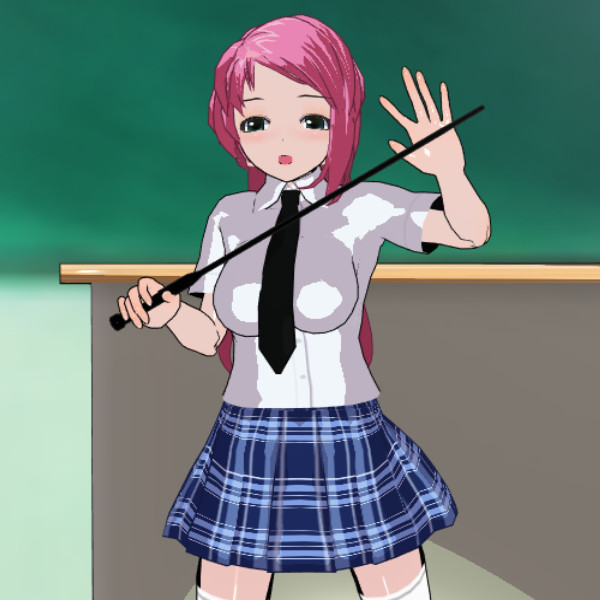
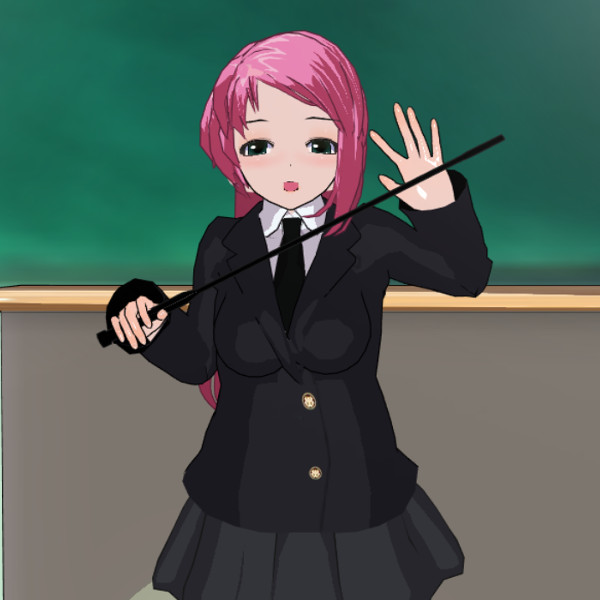
Chapter 12 - Models for the Wardrobe
Chapter 12 - Models for the Wardrobe

diff --git a/Drawing.js b/Drawing.js
@@ -409,7 +409,7 @@ function DrawGetPlayerImageName(IncludePose) {
 
 	// Third part is the collar, which only shows for certain clothes
 	var ImageCollar = "";
-	if ((ImageCloth == "Underwear") || (ImageCloth == "Naked") || (ImageCloth == "ChastityBelt") || (ImageCloth == "Damsel")) {
+	if ((ImageCloth == "Underwear") || (ImageCloth == "Naked") || (ImageCloth == "ChastityBelt") || (ImageCloth == "Damsel") || (ImageCloth == "Tennis") || (ImageCloth == "Judo")) {
 		if (PlayerHasLockedInventory("Collar")) ImageCollar = "_Collar";
 		else ImageCollar = "_NoCollar";
 	}
@@ -436,8 +436,13 @@ function DrawGetPlayerImageName(IncludePose) {
 
 // Draw the regular player image (600x600) (can zoom if an X and Y are provided)
 function DrawPlayerImage(X, Y) {
-	if ((X == 0) && (Y == 0)) DrawImage("C999_Common/Player/" + DrawGetPlayerImageName(false) + ".jpg", 600, 0);
-	else DrawImageZoom("C999_Common/Player/" + DrawGetPlayerImageName(false) + ".jpg", X, Y, 600, 600, 600, 0, 1200, 1200);
+	if ((Common_PlayerCostume == "Tennis") || (Common_PlayerCostume == "Judo") || (Common_PlayerCostume == "Teacher")) {
+		DrawRect(600, 0, 1200, 600, "White");
+		DrawTransparentPlayerImage(600, 0, 1);
+	} else {
+		if ((X == 0) && (Y == 0)) DrawImage("C999_Common/Player/" + DrawGetPlayerImageName(false) + ".jpg", 600, 0);
+		else DrawImageZoom("C999_Common/Player/" + DrawGetPlayerImageName(false) + ".jpg", X, Y, 600, 600, 600, 0, 1200, 1200);
+	}	
 }
 
 // Draw the transparent player image (600x900) with a zoom if required

diff --git a/C999_Common/Quiz/Quiz.js b/C999_Common/Quiz/Quiz.js
@@ -23,7 +23,7 @@ var QuizGoal = -1;
 var QuizText = null;
 var QuizQuestion = null;
 var QuizAnswer = null;
-var QuizFirstQuestionTime = 6000;
+var QuizFirstQuestionTime = 5000;
 var QuizBeforeAnswerTime = 3000;
 var QuizAnswerProgressTime = 3000;
 var QuizOtherQuestionTime = 3000;
@@ -176,15 +176,15 @@ function QuizRenderAfterAnswer() {
 function QuizRenderEnd() {
 	DrawText(Common_PlayerName + ": " + QuizProgressLeft.toString(), 600, 60, "white");
 	DrawText(QuizActorRight + ": " + QuizProgressRight.toString(), 600, 120, "white");
-	if (QuizProgressLeft == QuizGoal) DrawText(GetCSVText(QuizText, "Perfect"), 600, 200, "white");
-	else if (QuizProgressLeft >= QuizProgressRight) DrawText(GetCSVText(QuizText, "Victory"), 600, 200, "white");
+	if (QuizProgressRight == 0) DrawText(GetCSVText(QuizText, "Perfect"), 600, 200, "white");
+	else if (QuizProgressLeft > QuizProgressRight) DrawText(GetCSVText(QuizText, "Victory"), 600, 200, "white");
 	else DrawText(GetCSVText(QuizText, "Defeat"), 600, 200, "white");	
 }
 
 // Prepare the next quiz question if needed
 function QuizNextQuestion() {
 	if ((QuizTimer >= QuizBetweenQuestionTimer) && (QuizBetweenQuestionTimer > 0)) {
-		if (QuizProgressLeft + QuizProgressRight >= QuizGoal) QuizEnded = true;
+		if ((QuizProgressLeft >= QuizGoal) || (QuizProgressRight >= QuizGoal)) QuizEnded = true;
 		QuizTimer = QuizOtherQuestionTime * -1;
 		QuizAnswerText = "";
 		QuizAnswerBy = "";

diff --git a/C011_LiteratureClass/Mildred/Script.js b/C011_LiteratureClass/Mildred/Script.js
@@ -68,8 +68,8 @@ function C011_LiteratureClass_Mildred_StartQuiz(QuizChapter, Opponent) {
 	if (GameLogQuery("C009_Library", "", "ReadTwice")) AnswerGenSpeed = 1500;
 
 	// Loads the quiz
-	if (Opponent == "Sidney") QuizLoad("Player", C011_LiteratureClass_Mildred_QuizPlayerStatus, "Sidney", C011_LiteratureClass_Mildred_QuizSidneyStatus, "Mildred", "Clothed", "Easy", AnswerGenSpeed, 5, "Classroom", "MonteCristoChapter" + QuizChapter, "C011_LiteratureClass_Mildred_EndQuiz");
-	else QuizLoad("Player", C011_LiteratureClass_Mildred_QuizPlayerStatus, "Mildred", C011_LiteratureClass_Mildred_QuizMildredStatus, "Sidney", "Clothed", "Hard", AnswerGenSpeed, 5, "Classroom", "MonteCristoChapter" + QuizChapter, "C011_LiteratureClass_Mildred_EndQuizMildred");
+	if (Opponent == "Sidney") QuizLoad("Player", C011_LiteratureClass_Mildred_QuizPlayerStatus, "Sidney", C011_LiteratureClass_Mildred_QuizSidneyStatus, "Mildred", "Clothed", "Easy", AnswerGenSpeed, 3, "Classroom", "MonteCristoChapter" + QuizChapter, "C011_LiteratureClass_Mildred_EndQuiz");
+	else QuizLoad("Player", C011_LiteratureClass_Mildred_QuizPlayerStatus, "Mildred", C011_LiteratureClass_Mildred_QuizMildredStatus, "Sidney", "Clothed", "Hard", AnswerGenSpeed, 3, "Classroom", "MonteCristoChapter" + QuizChapter, "C011_LiteratureClass_Mildred_EndQuizMildred");
 
 }
 

diff --git a/C012_AfterClass/Wardrobe/Script.js b/C012_AfterClass/Wardrobe/Script.js
@@ -1,10 +1,27 @@
 var C012_AfterClass_Wardrobe_CurrentStage = 0;
+var C012_AfterClass_Wardrobe_CostumeHeroine = false;
+var C012_AfterClass_Wardrobe_CostumeVillain = false;
+var C012_AfterClass_Wardrobe_CostumeDamsel = false;
+var C012_AfterClass_Wardrobe_CostumeTennis = false;
+var C012_AfterClass_Wardrobe_CostumeJudo = false;
+var C012_AfterClass_Wardrobe_CostumeTeacher = false;
 
 // Chapter 12 After Class - Wardrobe Load
 function C012_AfterClass_Wardrobe_Load() {
+	
+	// Loads the scene to search in the wardrobe
 	LeaveIcon = "Leave";
 	LeaveScreen = "Dorm";
 	LoadInteractions();
+	
+	// Sets which costume are available based on what happened in the day
+	C012_AfterClass_Wardrobe_CostumeHeroine = GameLogQuery("C008_DramaClass", "Player", "RoleHeroine");
+	C012_AfterClass_Wardrobe_CostumeVillain = GameLogQuery("C008_DramaClass", "Player", "RoleVillain");
+	C012_AfterClass_Wardrobe_CostumeDamsel = GameLogQuery("C008_DramaClass", "Player", "RoleDamsel");
+	C012_AfterClass_Wardrobe_CostumeTennis = GameLogQuery("C007_LunchBreak", "Jennifer", "Lunch");
+	C012_AfterClass_Wardrobe_CostumeJudo = GameLogQuery("C005_GymClass", "Jennifer", "Judo");
+	C012_AfterClass_Wardrobe_CostumeTeacher = GameLogQuery("C011_LiteratureClass", "Player", "ClassLeader");
+	
 }
 
 // Chapter 12 After Class - Wardrobe Run

diff --git a/C008_DramaClass/DressingRoom/Script.js b/C008_DramaClass/DressingRoom/Script.js
@@ -3,6 +3,7 @@ function C008_DramaClass_DressingRoom_Load() {
 	LeaveIcon = "Wait";
 	Common_SelfBondageAllowed = true;
 	Common_BondageAllowed = true;
+	GameLogSpecificAdd(CurrentChapter, "", "Role" + C008_DramaClass_JuliaIntro_PlayerRole);
 }
 
 // Chapter 8 - Dressing Room Run

diff --git a/C005_GymClass/Jennifer/Script.js b/C005_GymClass/Jennifer/Script.js
@@ -25,6 +25,7 @@ function C005_GymClass_Jennifer_Load() {
 
 	// Load the scene parameters
 	ActorLoad("Jennifer", "GymClass");
+	GameLogAdd("Judo");
 	LoadInteractions();
 	StartTimer(11.5 * 60 * 60 * 1000, CurrentChapter, "Outro");
 	LeaveIcon = "";
